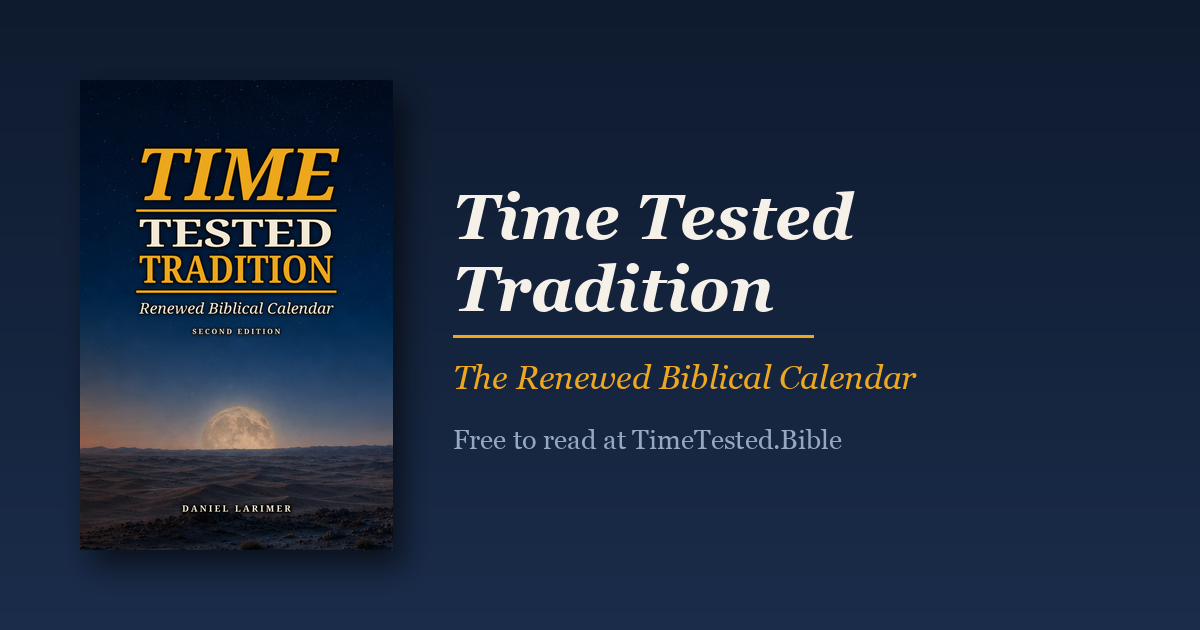
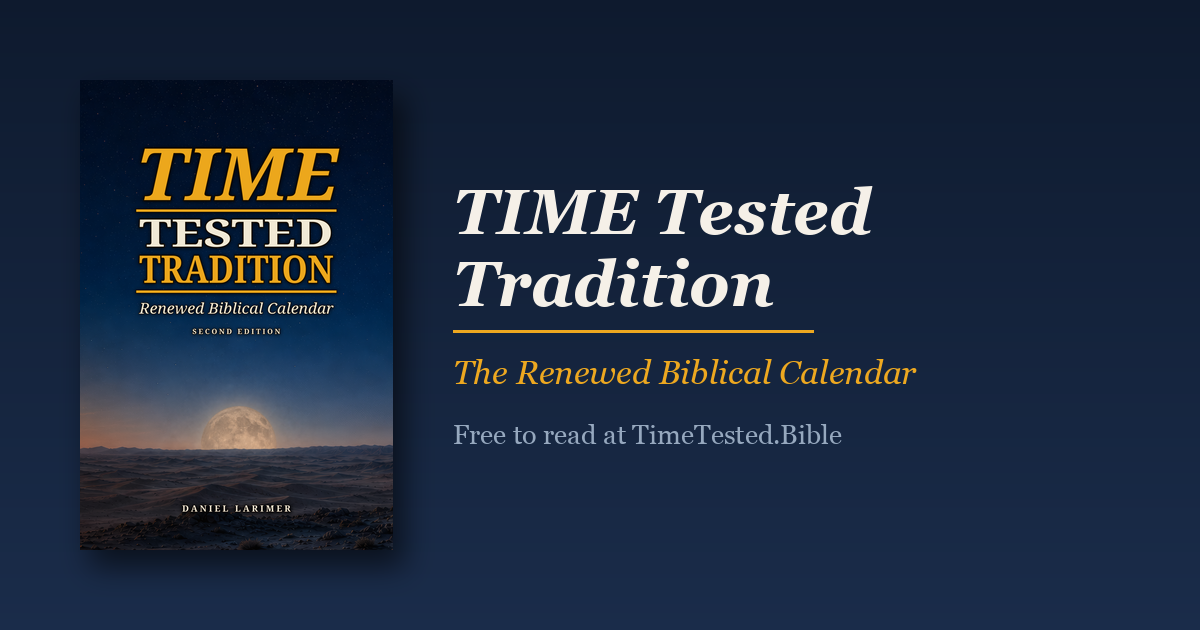
Full titles: 'MEAT The Bible's Symbolic Language' and 'TIME Tested Tradition'
MEAT's caption carries the full title (no title/tagline split); TIME is
set in caps as the parallel brand word, matching the covers. Applied to
the hero, /preorder/, the TTT manifest title, the chapter-header book
value, the TTT share card, and the Stripe product names.

Changed region(s): [[0.37, 0.3016, 0.74, 0.5429], [0.37, 0.573, 0.7708, 0.6333], [0.37, 0.6635, 0.7092, 0.7238]]

diff --git a/views/tutorial-view.js b/views/tutorial-view.js
@@ -41,7 +41,7 @@ const TutorialView = {
                   <span class="b3d-face b3d-back" aria-hidden="true"></span>
                 </a>
                 <span class="book-shadow" aria-hidden="true"></span>
-                <p class="book-caption"><strong>MEAT</strong><span class="book-tagline">The Bible's Symbolic Language</span></p>
+                <p class="book-caption"><strong>MEAT The Bible's Symbolic Language</strong></p>
                 ${this.renderBookOffer('SYMBOLIC_LANGUAGE_BOOK', '<span class="book-soon">Hardcover — August 1</span>')}
                 <p class="book-downloads">Read free:
                   <a href="/books/meat-bibles-symbolic-language" onclick="event.preventDefault(); AppStore.dispatch({type:'SET_VIEW',view:'reader',params:{contentType:'books',bookSlug:'meat-bibles-symbolic-language'}})">Web</a> ·
@@ -58,7 +58,7 @@ const TutorialView = {
                   <span class="b3d-face b3d-back" aria-hidden="true"></span>
                 </a>
                 <span class="book-shadow" aria-hidden="true"></span>
-                <p class="book-caption"><strong>Time Tested Tradition</strong><span class="book-tagline">The Renewed Biblical Calendar</span></p>
+                <p class="book-caption"><strong>TIME Tested Tradition</strong><span class="book-tagline">The Renewed Biblical Calendar</span></p>
                 ${this.renderBookOffer('TIME_TESTED_TRADITION_BOOK', '<span class="book-soon">Second-edition hardcover — August 1</span>')}
                 <p class="book-downloads">Read free:
                   <a href="/books/time-tested-tradition" onclick="event.preventDefault(); AppStore.dispatch({type:'SET_VIEW',view:'reader',params:{contentType:'books',bookSlug:'time-tested-tradition'}})">Web</a> ·

diff --git a/preorder.html b/preorder.html
@@ -33,7 +33,7 @@ og_image: "/assets/img/og/og-preorder.png"
             <span class="b3d-face b3d-back" aria-hidden="true"></span>
           </a>
           <span class="book-shadow" aria-hidden="true"></span>
-          <p class="book-caption"><strong>MEAT</strong><span class="book-tagline">The Bible's Symbolic Language</span></p>
+          <p class="book-caption"><strong>MEAT The Bible's Symbolic Language</strong></p>
           <p class="preorder-price">$7 <s>$49.49</s></p>
           <div class="book-actions">
             <a class="hero-btn primary book-offer-btn" id="buy-meat" href="#" aria-disabled="true"
@@ -48,7 +48,7 @@ og_image: "/assets/img/og/og-preorder.png"
             <span class="b3d-face b3d-back" aria-hidden="true"></span>
           </a>
           <span class="book-shadow" aria-hidden="true"></span>
-          <p class="book-caption"><strong>Time Tested Tradition</strong><span class="book-tagline">Second Edition &middot; Hardcover + Extra Content</span></p>
+          <p class="book-caption"><strong>TIME Tested Tradition</strong><span class="book-tagline">Second Edition &middot; Hardcover + Extra Content</span></p>
           <p class="preorder-price">$7 <s>$49.49</s></p>
           <div class="book-actions">
             <a class="hero-btn primary book-offer-btn" id="buy-ttt" href="#" aria-disabled="true"

diff --git a/time-tested-tradition-chapters.js b/time-tested-tradition-chapters.js
@@ -5,7 +5,7 @@
 
 const TIME_TESTED_TRADITION_BOOK = {
   slug: 'time-tested-tradition',
-  title: 'Time Tested Tradition',
+  title: 'TIME Tested Tradition',
   basePath: '/books/time-tested-tradition',
   cover: '/assets/img/covers/ttt-front-web.jpg',
   tagline: 'The Renewed Biblical Calendar',
